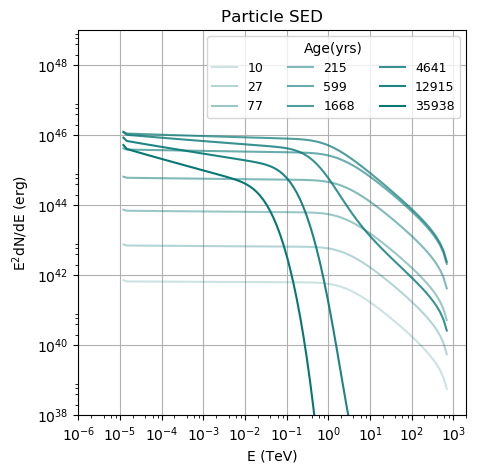
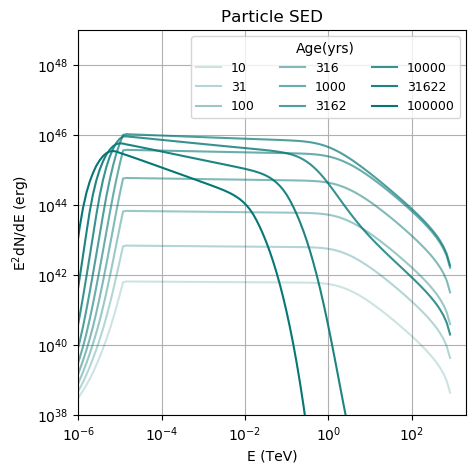
Corrected small bug in script particles_time_dep.py, updated the corresponding figure

diff --git a/docs/particles_time_dep.py b/docs/particles_time_dep.py
@@ -81,7 +81,7 @@ if __name__ == "__main__":
     '''
     alphas = np.linspace(0.2,1,9)
     f = plt.figure(figsize=(5,5))
-    for s,t,a in list(zip(p_seds,np.logspace(1,np.log10(age),10),alphas)):
+    for s,t,a in list(zip(p_seds,np.logspace(1,np.log10(age),9),alphas)):
         plt.loglog(s[:,0],s[:,1],c=mpik_green,alpha=a,label=str(int(t)))
     plt.xlabel("E (TeV)")
     plt.ylabel("E"+r"$^2$"+"dN/dE (erg)")
